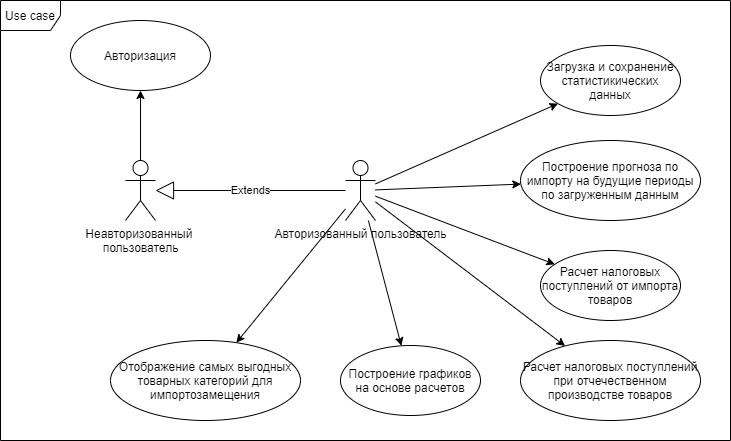
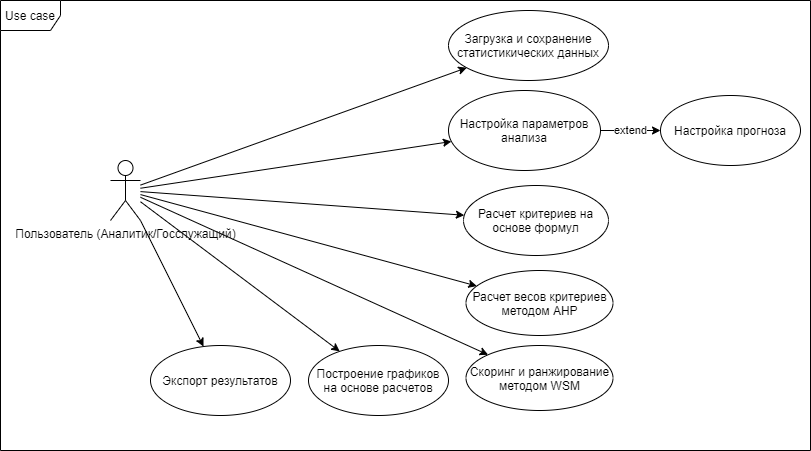
Add files via upload
Скорректирована на актуальную версию ЛР1

diff --git a/Lab Work №1/docs/Документ.md b/Lab Work №1/docs/Документ.md
@@ -1,77 +1,98 @@
+# Лабораторная работа №1
+**Тема:** Формулирование требований к программной системе
+
 # 1. Перечень заинтересованных лиц (стейкхолдеров)
 
 | Стейкхолдер | Краткое описание и интересы |
 | :--- | :--- |
-| Минпромторг России | Заинтересован в системе, как инструменте для поддержки принятия решений по финансированию отечественного производства конкретных категорий товаров из классификатора ТН ВЭД. |
-| Различные фонды: Фонд развития промышленности, Фонд содействия инновациям | Заинтересованы в системе с точки зрения поиска самой выгодной отрасли для инвестирования. |
-|Промышленные предприятия/Союзы: | Ключевой стейкхолдер. Их интерес — получить обоснование для подачи заявок на господдержку, увидеть перспективные рынки. Они — конечные "бенефициары" решений, принимаемых на основе системы.|
-| Пользователь системы | Заинтересован в удобном и простом процессе использования системы. |
-| Внешние экономические акторы | Внешние стейкхолдеры. Заинтересованы в сохранении доли рынка своей продукции в РФ, что косвенно может повлиять на их противодействие внедрению подобных систем. |
+| Минпромторг России | Заинтересован в системе как инструменте поддержки принятия решений при формировании политики импортозамещения и распределении мер господдержки. |
+| Фонды развития (ФРП, ФСИ и др.) | Используют систему для определения перспективных направлений инвестирования и оценки эффективности вложений. |
+| Промышленные предприятия и отраслевые союзы | Заинтересованы в выявлении перспективных товарных категорий для локализации производства и получения обоснований для участия в программах поддержки. |
+| Аналитики и экономисты | Непосредственные пользователи системы. Проводят анализ данных, интерпретируют результаты и формируют рекомендации. |
+| Пользователь системы | Заинтересован в удобстве, наглядности и корректности результатов анализа. |
+| Внешние экономические акторы | Косвенно заинтересованы в результатах, так как приоритизация импортозамещения может повлиять на структуру рынка. |
 
 # 2. Перечень функциональных требований
 
-*   **FR-CMS-1:** Программа должна загружать статистику внешнеэкономической деятельности из открытых источников и сохранять её.
-*   **FR-CMS-2:** Программа должна строить прогноз данных импорта на будущие периоды.
-*   **FR-CMS-3:** Программа должна рассчитывать налоговые поступления от импорта по категориям товаров из ТН ВЭД.
-*   **FR-CMS-4:** Программа должна рассчитывать налоговые поступления от локального производства товаров по категориям товаров из ТН ВЭД.
-*   **FR-CMS-5:** Программа должна строить графики на основе рассчитанных данных.
-*   **FR-CMS-6:** Программа должна показывать самые выгодные товары для импортозамещения.
-*   **FR-CMS-7:** Программа должна предоставлять возможность авторизации.
-*   **FR-CMS-8** Программа должна формировать отчеты с возможностью экспортировать графики и таблицы в форматы PDF/Excel.
+## 2.1 Работа с данными
+- **FR-1:** Система должна обеспечивать загрузку данных внешнеэкономической деятельности из файлов формата CSV и Excel.
+- **FR-2:** Система должна сохранять загруженные данные в структурированном виде для последующей обработки.
+- **FR-3:** Система должна выполнять предобработку данных (агрегация, очистка, заполнение пропусков).
 
-# 3. Диаграмма использования
+## 2.2 Расчёт аналитических показателей
+- **FR-4:** Система должна рассчитывать долю импорта товара в общем объёме импорта.
+- **FR-5:** Система должна рассчитывать темпы роста импорта.
+- **FR-6:** Система должна рассчитывать показатель зависимости от импорта (отношение импорта к сумме импорта и экспорта).
+- **FR-7:** Система должна рассчитывать индекс концентрации (HHI).
+- **FR-8:** Система должна рассчитывать волатильность показателей на основе временных рядов.
+
+## 2.3 Обработка критериев
+- **FR-9:** Система должна выполнять клиппинг значений критериев для устранения выбросов.
+- **FR-10:** Система должна выполнять нормализацию критериев для приведения к сопоставимому масштабу.
+
+## 2.4 Определение весов критериев
+- **FR-11:** Система должна обеспечивать определение весов критериев с использованием метода анализа иерархий (AHP).
+- **FR-12:** Система должна предоставлять пользователю возможность ручной настройки весов критериев.
+
+## 2.5 Многокритериальный анализ
+- **FR-13:** Система должна рассчитывать интегральный показатель (скоринг) товаров на основе взвешенной суммы критериев.
+- **FR-14:** Система должна выполнять ранжирование товаров по степени приоритетности для импортозамещения.
+
+## 2.6 Визуализация и представление результатов
+- **FR-15:** Система должна строить графики и диаграммы на основе рассчитанных данных.
+- **FR-16:** Система должна отображать список наиболее приоритетных товаров для импортозамещения.
+
+## 2.7 Прогнозирование
+- **FR-17:** Система должна строить прогноз значений импорта на будущие периоды на основе исторических данных.
+
+## 2.8 Экспорт результатов
+- **FR-18:** Система должна обеспечивать экспорт результатов анализа (таблицы, графики) в формат Excel.
+
+# 3. Диаграмма вариантов использования
 
 ![Alt text](diagram.png)
 
 # 4. Перечень сделанных предположений
 
-**Качество и доступность данных:**
+## Данные
+- Данные ВЭД доступны в формате CSV/Excel и корректно структурированы.
+- Классификация товаров по ТН ВЭД остаётся стабильной во времени.
 
-Источники данных (ФТС России, ФНС, Росстат) предоставляют статистику в структурированном, машиночитаемом формате (CSV, XLS, API).
+## Аналитическая модель
+- Выбранные критерии адекватно отражают значимость импортозамещения.
+- Критерии являются независимыми или слабо коррелированными.
 
-Данные являются достаточно полными, актуальными и достоверными для проведения значимого анализа.
+## Прогнозирование
+- Прогноз строится только на основе исторических данных.
+- Внешние факторы не учитываются явно.
 
-Методология сбора и классификации данных (по ТН ВЭД) со временем не претерпевает кардинальных изменений, которые сделали бы невозможным сравнение данных за разные периоды.
+## Пользователи
+- Пользователь обладает базовыми знаниями в области экономики и анализа данных.
+- Система используется как инструмент поддержки принятия решений.
 
-**Модель прогнозирования:**
-
-Для построения прогноза импорта достаточно исторических данных за прошедшие периоды. Система не учитывает форс-мажорные события, геополитические шоки или внезапные изменения законодательства.
-
-Будет использоваться относительно простая, но эффективная модель прогнозирования, не требующая экстремальных вычислительных ресурсов.
-
-**Методология расчета:**
-
-Налоговые поступления от импорта и локального производства могут быть рассчитаны на основе аппроксимации (например, средней ставки пошлины или НДС по товарной группе) без необходимости подключения к внутренним системам ФНС.
-
-Критерии "выгодности" для импортозамещения могут быть формализованы.
-
-**Контекст использования:**
-
-Пользователями системы являются аналитики, экономисты или госслужащие, имеющие базовое понимание экономической статистики и классификатора ТН ВЭД.
-
-Система не подменяет собой процесс принятия решений, а является инструментом для анализа, предоставляющим рекомендации. Ответственность за окончательное решение лежит на человеке.
-
-**Технический контекст:**
-
-Система будет развернута в защищенном контуре организации (Минпромторга или фонда), что обеспечивает базовый уровень сетевой безопасности.
-
-Для работы системы будет обеспечен стабильный доступ к интернету для загрузки актуальных данных из открытых источников.
+## Технические ограничения
+- Система работает локально (desktop-приложение).
+- Объём данных ограничен возможностями пользовательского устройства.
 
 # 5. Перечень нефункциональных требований
 
-## 1. Производительность:
-*   **NR-PERF-1:** Время отклика системы для любого пользовательского действия не должно превышать 2 секунд при средней нагрузке.
+## 5.1 Производительность
+- **NFR-PERF-1:** Время отклика интерфейса не должно превышать 2 секунд.
+- **NFR-PERF-2:** Время расчёта — не более 10 секунд для 10 000 записей.
 
-## 2. Надежность и доступность:
-*   **NR-REL-1:** Система не должна аварийно завершать свою работу.
+## 5.2 Надёжность
+- **NFR-REL-1:** Корректная обработка ошибок входных данных.
+- **NFR-REL-2:** Отсутствие аварийных завершений.
 
-## 3. Безопасность:
-*   **NR-SEC-1:** Логины и пароли для авторизации должны храниться в зашифрованном виде.
-*   **NR-SEC-2:** Неавторизованный пользователь не должен иметь доступа к функционалу системы.
+## 5.3 Безопасность
+- **NFR-SEC-1:** Данные хранятся локально.
 
-## 4. Удобство использования (Usability):
-*   **NR-USA-1:** Интерфейс системы должен быть интуитивно понятным и требовать минимального обучения.
+## 5.4 Удобство использования
+- **NFR-USA-1:** Все ключевые действия доступны с главного экрана.
 
-## 5. Сопровождаемость:
-*   **NR-MAIN-1:** Система должна быть построена с использованием стандартных технологий и иметь полную техническую документацию для облегчения поддержки и дальнейшего развития.
+## 5.5 Сопровождаемость
+- **NFR-MAIN-1:** Модульная архитектура.
+- **NFR-MAIN-2:** Документированный код.
 
+## 5.6 Воспроизводимость
+- **NFR-REP-1:** Одинаковые результаты при одинаковых данных.
